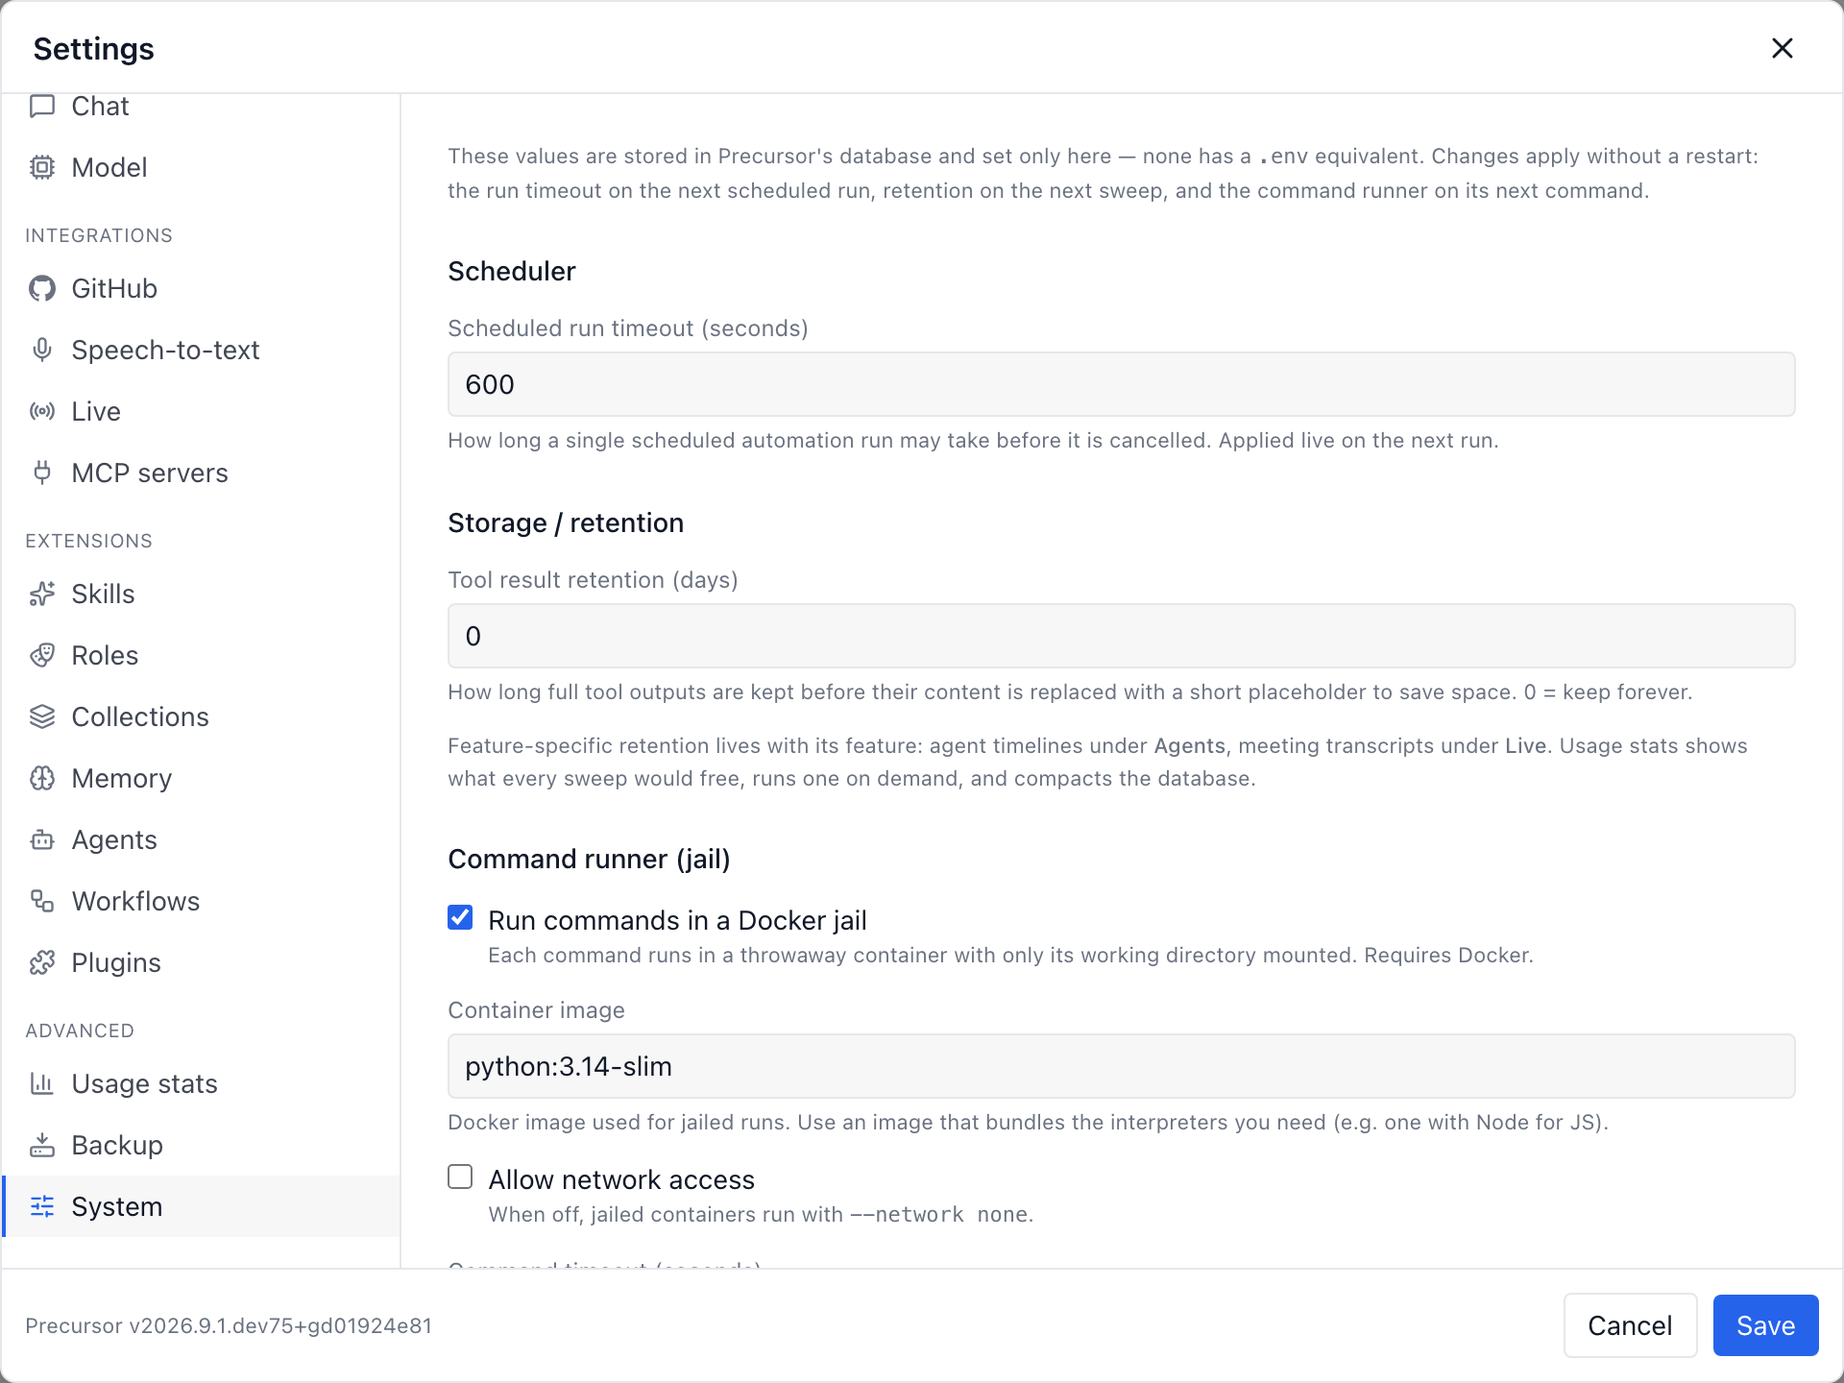
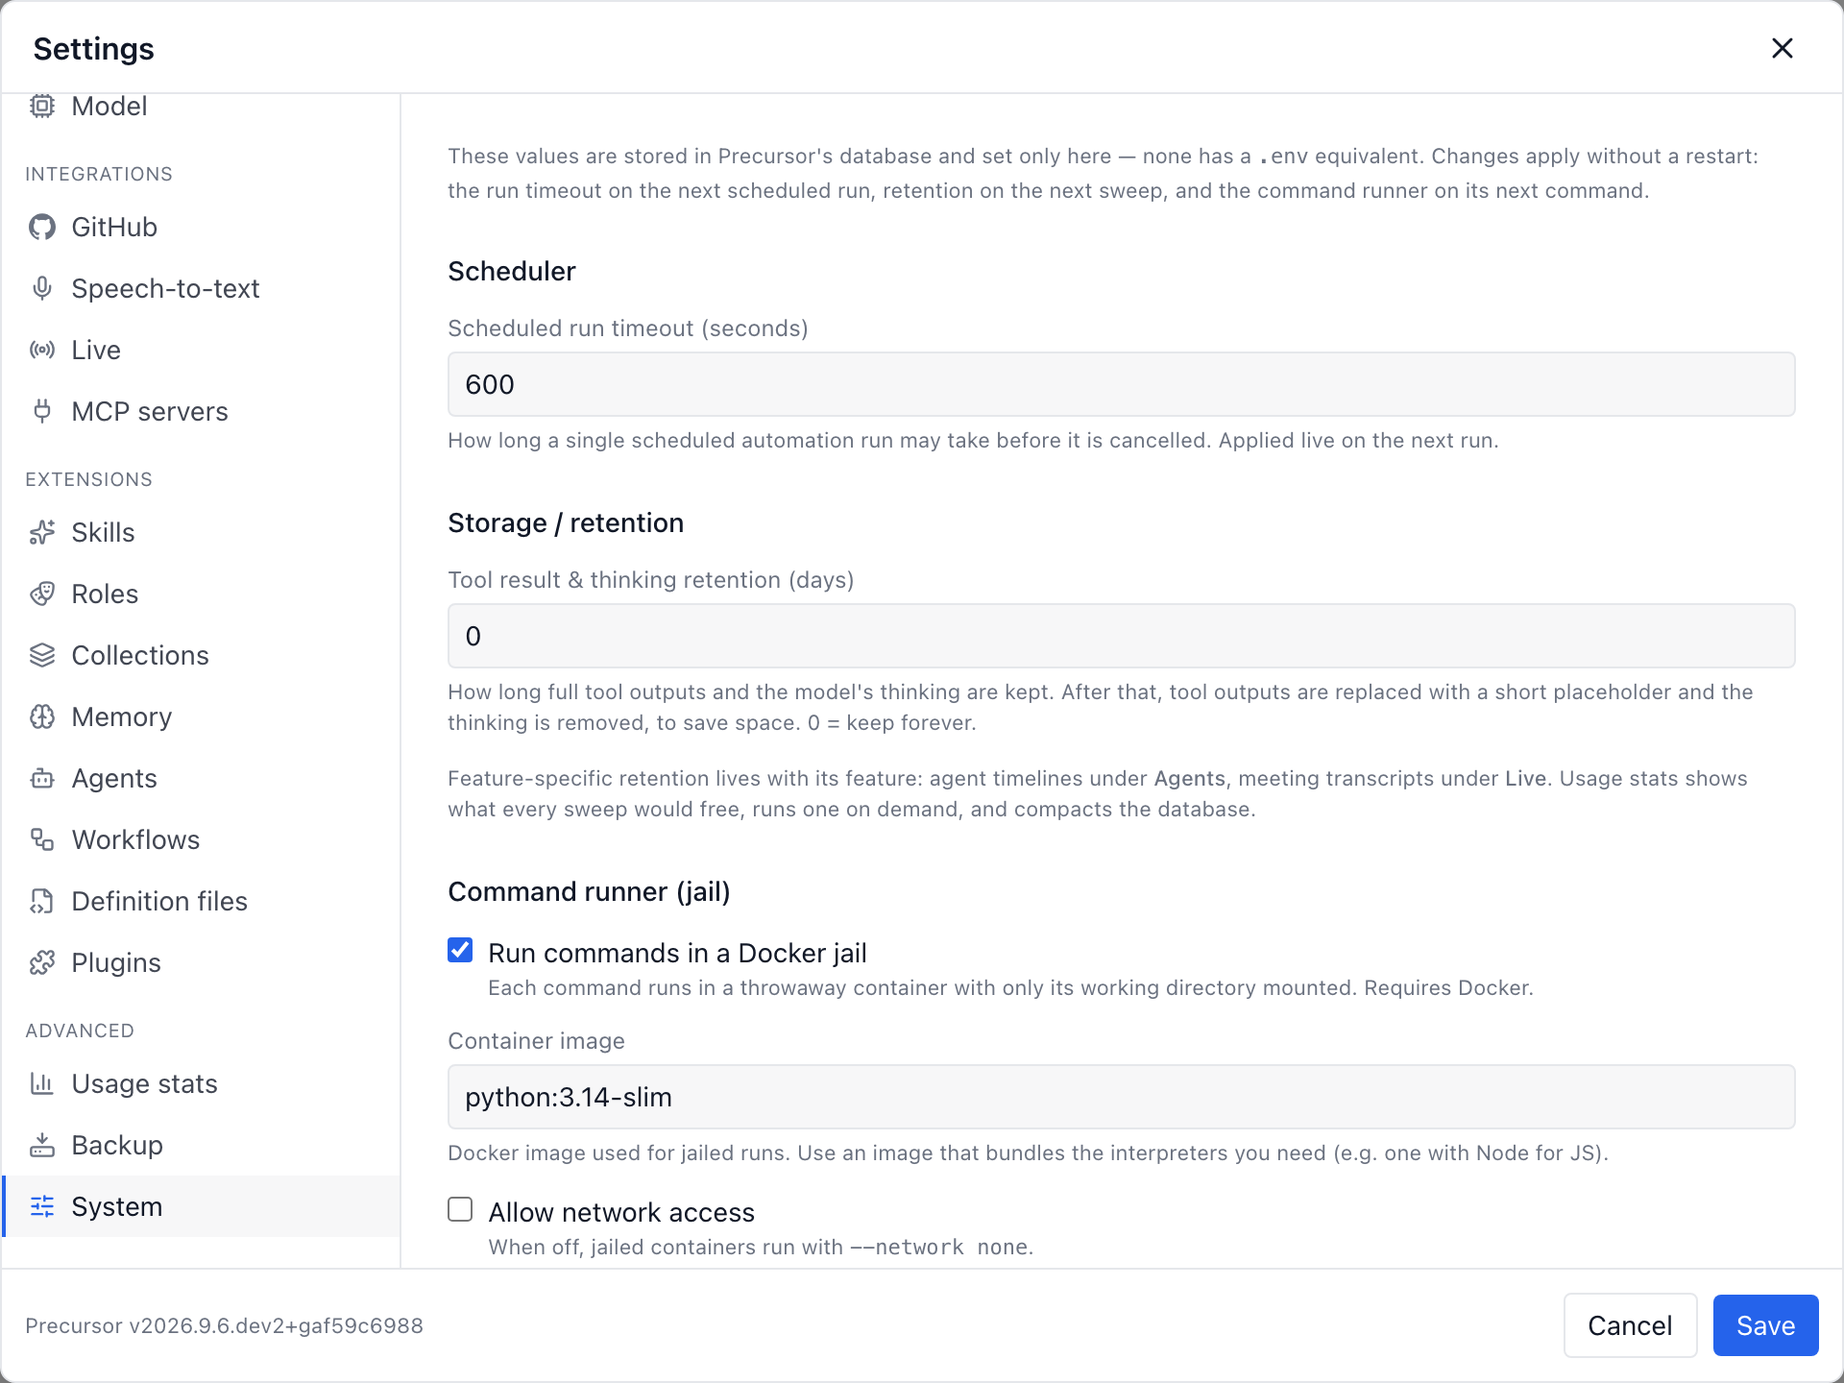
Clear expired model thinking with the tool-result retention sweep
The model's thinking (messages.reasoning) grew without bound. The
tool-result retention sweep now also nulls reasoning on messages older than
the same window. Thinking is display-only and never replayed to the model, so
it is dropped outright rather than replaced with a placeholder; the reply
keeps its answer. Dry runs count it, so the storage cockpit previews it too.

The setting reads "Tool result & thinking retention" and the cockpit target
"Tool results & thinking"; docs and the command-runner screenshot follow.

Copilot-Session: cebf774e-32bf-4f52-a4c8-0547f0697ff6

diff --git a/frontend/src/components/SettingsPanel.tsx b/frontend/src/components/SettingsPanel.tsx
@@ -1750,10 +1750,10 @@ function SystemTab({
 
       <section className="space-y-3">
         <h3 className="text-sm font-medium">Storage / retention</h3>
-        {numField("Tool result retention (days)", "tool_result_retention_days", {
+        {numField("Tool result & thinking retention (days)", "tool_result_retention_days", {
           min: 0,
           max: 3650,
-          help: "How long full tool outputs are kept before their content is replaced with a short placeholder to save space. 0 = keep forever.",
+          help: "How long full tool outputs and the model's thinking are kept. After that, tool outputs are replaced with a short placeholder and the thinking is removed, to save space. 0 = keep forever.",
         })}
         <p className="text-[11px] text-muted">
           Feature-specific retention lives with its feature: agent timelines

diff --git a/precursor/backend/services/tool_result_retention.py b/precursor/backend/services/tool_result_retention.py
@@ -1,12 +1,16 @@
-"""Age-limited retention for persisted TOOL message results.
+"""Age-limited retention for persisted TOOL message results and model thinking.
 
 Large tool outputs persisted in ``messages.content`` accumulate over time (one
 prod DB held ~8 MB of TOOL rows). When a retention window is configured, this
 sweep replaces the ``content`` of TOOL rows older than the cutoff with a short
 placeholder — **in place**. The row and its ``tool_calls`` JSON metadata are
 kept intact so ``hydrate_history()`` (services/turn_engine.py) still pairs each
-assistant tool-call turn with its TOOL rows by ``tool_call_id`` and never drops
-a whole turn. Default retention is 0 (disabled / keep forever).
+assistant tool-call turn with its TOOL rows and never drops a whole turn.
+
+The same window clears the model's thinking (``messages.reasoning``) on older
+assistant turns. It is display-only — never replayed to the model — so it is
+dropped outright rather than replaced, and the reply simply loses its collapsed
+"Thinking" area. Default retention is 0 (disabled / keep forever).
 """
 
 from __future__ import annotations
@@ -20,6 +24,7 @@ from typing import Any, cast
 from sqlalchemy import func, select, update
 from sqlalchemy.engine import CursorResult
 from sqlalchemy.ext.asyncio import AsyncSession
+from sqlalchemy.sql import ColumnElement
 
 from precursor.backend.db import SessionLocal
 from precursor.backend.models import Message, MessageRole
@@ -37,52 +42,76 @@ PRUNED_PLACEHOLDER = "[Tool result pruned to save space]"
 _MIN_CONTENT_LEN = 200
 
 
+async def _measure(
+    session: AsyncSession, column: Any, criteria: tuple[ColumnElement[bool], ...]
+) -> tuple[int, int]:
+    """Rows matching ``criteria`` and the total length of ``column`` across them."""
+    measured = (
+        await session.execute(
+            select(func.count(Message.id), func.coalesce(func.sum(func.length(column)), 0)).where(
+                *criteria
+            )
+        )
+    ).one()
+    return int(measured[0] or 0), int(measured[1] or 0)
+
+
 async def prune_expired_tool_results(
     session_factory: Callable[[], AbstractAsyncContextManager[AsyncSession]] = SessionLocal,
     *,
     dry_run: bool = False,
 ) -> SweepResult:
-    """Replace content of expired TOOL rows with a placeholder; report the effect.
+    """Placeholder expired TOOL results and clear expired thinking; report the effect.
 
     A no-op when retention is disabled (0 days). Otherwise truncates role=TOOL
     rows older than ``now - retention`` whose content exceeds a small floor and
-    isn't already the placeholder. With ``dry_run`` the rows are only measured,
-    so the settings UI can preview a sweep before committing to it.
+    isn't already the placeholder, and nulls ``reasoning`` on older rows. With
+    ``dry_run`` the rows are only measured, so the settings UI can preview a
+    sweep before committing to it.
     """
     async with session_factory() as session:
         retention_days = await resolve_tool_result_retention_days(session)
         if retention_days <= 0:
             return SweepResult()
         cutoff = datetime.now(UTC) - timedelta(days=retention_days)
-        criteria = (
+        tool_criteria = (
             Message.role == MessageRole.TOOL,
             Message.created_at < cutoff,
             func.length(Message.content) > _MIN_CONTENT_LEN,
             Message.content != PRUNED_PLACEHOLDER,
         )
-        measured = (
-            await session.execute(
-                select(
-                    func.count(Message.id),
-                    func.coalesce(func.sum(func.length(Message.content)), 0),
-                ).where(*criteria)
-            )
-        ).one()
-        rows = int(measured[0] or 0)
-        # Each row keeps the placeholder, so only the excess is reclaimed.
-        freed = max(int(measured[1] or 0) - rows * len(PRUNED_PLACEHOLDER), 0)
-        if dry_run or not rows:
-            return SweepResult(rows=rows, bytes=freed)
-
-        result = await session.execute(
-            update(Message).where(*criteria).values(content=PRUNED_PLACEHOLDER)
+        thinking_criteria = (
+            Message.reasoning.is_not(None),
+            Message.created_at < cutoff,
         )
+        tool_rows, tool_chars = await _measure(session, Message.content, tool_criteria)
+        thinking_rows, thinking_chars = await _measure(
+            session, Message.reasoning, thinking_criteria
+        )
+        # Each tool row keeps the placeholder, so only the excess is reclaimed.
+        tool_freed = max(tool_chars - tool_rows * len(PRUNED_PLACEHOLDER), 0)
+        freed = tool_freed + thinking_chars
+        if dry_run or not (tool_rows or thinking_rows):
+            return SweepResult(rows=tool_rows + thinking_rows, bytes=freed)
+
+        pruned = cleared = 0
+        if tool_rows:
+            result = await session.execute(
+                update(Message).where(*tool_criteria).values(content=PRUNED_PLACEHOLDER)
+            )
+            pruned = int(cast("CursorResult[Any]", result).rowcount or 0)
+        if thinking_rows:
+            result = await session.execute(
+                update(Message).where(*thinking_criteria).values(reasoning=None)
+            )
+            cleared = int(cast("CursorResult[Any]", result).rowcount or 0)
         await session.commit()
-        count = int(cast("CursorResult[Any]", result).rowcount or 0)
-        if count:
+        if pruned or cleared:
             logger.info(
-                "Pruned %d expired tool result(s) older than %d day(s)",
-                count,
+                "Pruned %d expired tool result(s) and cleared %d model thinking "
+                "block(s) older than %d day(s)",
+                pruned,
+                cleared,
                 retention_days,
             )
-        return SweepResult(rows=count, bytes=freed)
+        return SweepResult(rows=pruned + cleared, bytes=freed)

diff --git a/tests/test_tool_result_retention.py b/tests/test_tool_result_retention.py
@@ -4,8 +4,9 @@ The sweep replaces the ``content`` of aged TOOL rows with a short placeholder
 *in place* — keeping the row and its ``tool_calls`` metadata so
 ``_hydrate_history`` still pairs each assistant tool-call turn with its TOOL
 rows. Covers: disabled (0) is a no-op; old large TOOL rows get the placeholder
-while recent/non-TOOL rows are untouched; idempotency; and that a pruned row
-still hydrates without dropping its assistant turn.
+while recent/non-TOOL rows are untouched; idempotency; that a pruned row
+still hydrates without dropping its assistant turn; and that the same window
+clears the model's thinking on older turns.
 """
 
 from __future__ import annotations
@@ -179,3 +180,59 @@ def test_pruned_row_still_hydrates_pairing() -> None:
     assert roles.count("tool") == 2
     tool_contents = [m.content for m in hydrated if m.role == "tool"]  # type: ignore[attr-defined]
     assert PRUNED_PLACEHOLDER in tool_contents
+
+
+def test_clears_expired_thinking_only() -> None:
+    _init_db()
+
+    async def _run() -> None:
+        from sqlalchemy import delete, select
+
+        old = datetime.now(UTC) - timedelta(days=40)
+        recent = datetime.now(UTC) - timedelta(days=1)
+        async with SessionLocal() as session:
+            await session.execute(delete(Message))
+            await session.execute(delete(Topic))
+            topic = Topic(title="thinking", slug="thinking")
+            session.add(topic)
+            await session.flush()
+            session.add_all(
+                [
+                    Message(
+                        topic_id=topic.id,
+                        role=MessageRole.ASSISTANT,
+                        content="old answer",
+                        reasoning="T" * 500,
+                        created_at=old,
+                    ),
+                    Message(
+                        topic_id=topic.id,
+                        role=MessageRole.ASSISTANT,
+                        content="new answer",
+                        reasoning="fresh",
+                        created_at=recent,
+                    ),
+                ]
+            )
+            await session.commit()
+
+        async def _rows() -> list[tuple[str, str | None]]:
+            async with SessionLocal() as session:
+                found = await session.execute(select(Message).order_by(Message.id))
+                return [(m.content, m.reasoning) for m in found.scalars()]
+
+        await _set_retention(0)
+        assert (await prune_expired_tool_results()).rows == 0
+
+        await _set_retention(30)
+        preview = await prune_expired_tool_results(dry_run=True)
+        # Thinking is dropped outright, so all of it counts as reclaimed.
+        assert (preview.rows, preview.bytes) == (1, 500)
+        assert await _rows() == [("old answer", "T" * 500), ("new answer", "fresh")]
+
+        assert (await prune_expired_tool_results()).rows == 1
+        # Only the thinking goes: the answer itself is never touched.
+        assert await _rows() == [("old answer", None), ("new answer", "fresh")]
+        assert (await prune_expired_tool_results()).rows == 0
+
+    asyncio.run(_run())

diff --git a/precursor/backend/services/tool_result_ticker.py b/precursor/backend/services/tool_result_ticker.py
@@ -1,10 +1,11 @@
-"""Background ticker that prunes expired TOOL-result content.
+"""Background ticker that prunes expired TOOL-result content and model thinking.
 
 A single lightweight task periodically replaces the ``content`` of aged TOOL
-rows with a short placeholder (see ``services/tool_result_retention``), bounding
-long-term DB growth. Gated by the same ``scheduler_enabled`` flag as the other
-tickers; the poll interval defaults to daily. When retention is disabled the
-sweep is a cheap no-op, so the ticker can keep running regardless.
+rows with a short placeholder and clears aged ``reasoning`` (see
+``services/tool_result_retention``), bounding long-term DB growth. Gated by the
+same ``scheduler_enabled`` flag as the other tickers; the poll interval defaults
+to daily. When retention is disabled the sweep is a cheap no-op, so the ticker
+can keep running regardless.
 """
 
 from __future__ import annotations

diff --git a/precursor/backend/schemas/settings.py b/precursor/backend/schemas/settings.py
@@ -75,7 +75,8 @@ class SettingsPayload(BaseModel):
     llm_max_tool_result_tokens: int | None = None
     # Scheduler (only the live-applicable timeout is editable).
     scheduled_run_timeout_seconds: int | None = None
-    # Tool-result retention window in days (0 = keep forever / disabled).
+    # Tool-result retention window in days (0 = keep forever / disabled). Also
+    # clears the model's thinking on older assistant turns.
     tool_result_retention_days: int | None = None
     # Live transcript retention window in days (0 = keep forever). Deletes only
     # transcript segments of ended sessions; insights/notes/summary are kept.

diff --git a/precursor/backend/services/storage_cleanup.py b/precursor/backend/services/storage_cleanup.py
@@ -70,10 +70,11 @@ TARGETS: tuple[CleanupTarget, ...] = (
     ),
     CleanupTarget(
         key="tool_results",
-        label="Tool results",
+        label="Tool results & thinking",
         description=(
-            "Replaces the body of old tool results with a short placeholder. "
-            "The conversation structure is preserved."
+            "Replaces the body of old tool results with a short placeholder and "
+            "drops the model's thinking on old replies. The conversation "
+            "structure is preserved."
         ),
         setting="tool_result_retention_days",
         table="messages",

diff --git a/precursor/backend/services/app_settings.py b/precursor/backend/services/app_settings.py
@@ -467,7 +467,8 @@ DEFAULT_LLM_MAX_TOOL_RESULT_TOKENS = 20_000
 # Wall-clock ceiling for one scheduled/automated run.
 DEFAULT_SCHEDULED_RUN_TIMEOUT_SECONDS = 600
 
-# Retention window (in days) for full TOOL-result content. 0 disables pruning.
+# Retention window (in days) for full TOOL-result content and model thinking
+# (``messages.reasoning``). 0 disables pruning.
 DEFAULT_TOOL_RESULT_RETENTION_DAYS = 0
 
 # Retention window (in days) for Live meeting transcript segments, measured from

diff --git a/website/features/storage.md b/website/features/storage.md
@@ -21,7 +21,7 @@ The usual suspects, and what bounds each:
 | Feature | Table | Bounded by |
 | --- | --- | --- |
 | [Agents](/features/agents-mode) timelines | `agent_events` | `agent_event_retention_days` + `agent_event_max_per_session` |
-| Tool results in [chats](/features/chats) and [topics](/features/topics) | `messages` | `tool_result_retention_days` |
+| Tool results and model [thinking](/features/topics#watching-the-model-think) in [chats](/features/chats) and [topics](/features/topics) | `messages` | `tool_result_retention_days` |
 | [Live](/features/live-sessions) transcripts | `meeting_segments` | `live_transcript_retention_days` |
 | [Attachments](/features/attachments) | *(on disk, not in the DB)* | content-addressed blobs + orphan GC |
 
@@ -35,7 +35,9 @@ Each one is deliberately **conservative about meaning and aggressive about
 bytes**:
 
 - **Tool results** — the row and its `tool_call_id` metadata stay, only the body
-  is replaced with a short placeholder. The conversation never loses a turn.
+  is replaced with a short placeholder. The conversation never loses a turn. The
+  same window drops the model's thinking on older replies; the reply itself
+  stays, it just loses its collapsed **Thinking** area.
 - **Live transcripts** — only raw segments of *ended* sessions are deleted.
   Summary, insights and notes survive, so a cleaned session still shows its
   recap. An active recording is never touched.

diff --git a/website/reference/configuration.md b/website/reference/configuration.md
@@ -139,7 +139,7 @@ env-level.
 
 | Setting | Default | Where | Description |
 | --- | --- | --- | --- |
-| `tool_result_retention_days` | `0` (keep forever) | Settings → System | Days before a large tool result's content is replaced in place with a short placeholder. |
+| `tool_result_retention_days` | `0` (keep forever) | Settings → System | Days before a large tool result's content is replaced in place with a short placeholder, and the model's thinking is removed from a reply. |
 | `live_transcript_retention_days` | `7` | Settings → Live | Days after a [Live session](/features/live-sessions#transcript-retention) ends before its transcript segments are deleted. `0` keeps them forever. Insights, notes and summary are preserved. |
 | `agent_event_retention_days` | `30` | Settings → Agents | Days before an agent's archived timeline events are deleted. `0` keeps them forever. A *running* agent is never pruned, and every agent keeps its result, artifacts and messages. |
 | `agent_event_max_per_session` | `2000` | Settings → Agents | Hard ceiling on archived events per agent — only the newest are kept. `0` is unlimited. |

diff --git a/website/features/attachments.md b/website/features/attachments.md
@@ -46,8 +46,10 @@ database over time. An optional **Settings → System → Storage / retention** 
 (`tool_result_retention_days`, default `0` = keep forever) bounds that growth:
 past the configured age, a tool message's content is replaced **in place** with a
 short placeholder, while the row and its `tool_calls` metadata are preserved so
-conversation history still pairs each tool-call turn with its results. The sweep
-is idempotent and runs best-effort on startup and periodically.
+conversation history still pairs each tool-call turn with its results. The same
+window removes the model's [thinking](/features/topics#watching-the-model-think)
+from older replies. The sweep is idempotent and runs best-effort on startup and
+periodically.
 
 This is one of several sweeps that bound database growth — see
 [Storage & retention](/features/storage) for the rest, and for the cockpit that

diff --git a/CHANGELOG.md b/CHANGELOG.md
@@ -22,7 +22,9 @@ are the per-version history; releasing does not rewrite this file.
   answer (and with each tool round) after a reload, and a stopped turn keeps
   what was received. Gemini streams its thoughts, GPT-5.5 and later stream a
   reasoning summary — Precursor now requests one on the Responses API — and
-  Claude sends a summary with the answer. Thinking is never replayed to the model.
+  Claude sends a summary with the answer. Thinking is never replayed to the model,
+  and the tool-result retention window (renamed *Tool result & thinking
+  retention*) clears it from older replies.
   Messages gain a `reasoning` field, the chat stream a `reasoning` event, and
   `POST …/messages/stopped` an optional `reasoning`.
 

diff --git a/website/features/topics.md b/website/features/topics.md
@@ -124,7 +124,10 @@ What appears depends on the model:
   Thinking area at all.
 
 The effort picker under the composer sets how hard the model thinks. The thinking
-is for you only: it is never sent back to the model on later turns.
+is for you only: it is never sent back to the model on later turns. It follows
+the tool-result retention window (**Settings → System → Storage / retention**):
+past it, a reply keeps its answer but loses its Thinking area — see
+[Storage & retention](/features/storage).
 
 ## Deleting, clearing and stopping
 
